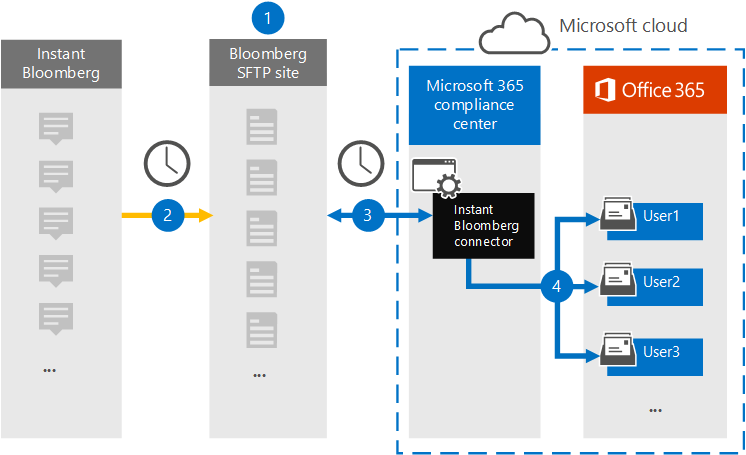
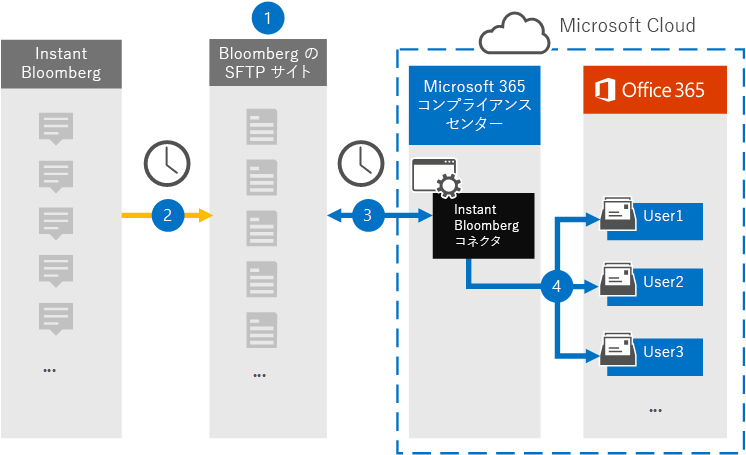
commit translated contents

diff --git a/microsoft-365/compliance/offering-gxp.md b/microsoft-365/compliance/offering-gxp.md
@@ -14,12 +14,12 @@ audience: itpro
 ms.collection: M365-security-compliance
 hideEdit: true
 titleSuffix: Microsoft Compliance
-ms.openlocfilehash: 6a3379043108340391764781f52b6a1bc3e05cf3
-ms.sourcegitcommit: 1c91b7b24537d0e54d484c3379043db53c1aea65
+ms.openlocfilehash: b4699ca9fda4f8d5364dff0fdabd868b886540b3
+ms.sourcegitcommit: b1ec6ba779a94ddbaab11a272e40abe1d3064532
 ms.translationtype: HT
 ms.contentlocale: ja-JP
-ms.lasthandoff: 01/29/2020
-ms.locfileid: "41601934"
+ms.lasthandoff: 04/07/2020
+ms.locfileid: "43165902"
 ---
 # <a name="good-clinical-laboratory-and-manufacturing-practices-gxp"></a>Good Clinical, Laboratory, and Manufacturing Practices (GxP)
 
@@ -40,7 +40,7 @@ Microsoft は、ライフ サイエンス製品およびサービスの研究、
 
 これらの標準とベスト プラクティスは GxP 規制への準拠に特に焦点を合わせていませんが、目的は類似しており、Microsoft クラウド サービスに保存されたデータの機密性、整合性、可用性を保証します。
 
-Microsoft は、ライフ サイエンス業界向けの品質保証および規制GxPコンプライアンスに特化した独立組織である [Montrium](https://www.montrium.com/)を保持し、Microsoft の GxP 資格審査を実施しました。 作成された認定ガイドライン ([ Azure ](https://aka.ms/gxpcompliance)および[ Office 365 ](https://aka.ms/o365-qualification-guideline)) は、クラウド サービスを使用して GxP 規制のコンピューター システムをホストおよびサポートすることを計画しているライフ サイエンス企業を対象としています。 ガイドラインでは、GxP 要件を満たすために Microsoft と顧客が分担する責任を特定し、範囲内の Microsoft クラウド サービスを利用する顧客が GxP コンピューター システムの制御を維持するために確立できるアクティビティと制御を推奨します。
+Microsoft は、ライフ サイエンス業界向けの品質保証および規制GxPコンプライアンスに特化した独立組織である [Montrium](https://www.montrium.com/)を保持し、Microsoft の GxP 資格審査を実施しました。 作成された認定ガイドライン ([ Azure ](https://aka.ms/gxpcompliance)および[ Office 365 ](https://resources.techcommunity.microsoft.com/wp-content/uploads/2019/05/Microsoft-Office-365-GxP-Guidelines.pdf)) は、クラウド サービスを使用して GxP 規制のコンピューター システムをホストおよびサポートすることを計画しているライフ サイエンス企業を対象としています。 ガイドラインでは、GxP 要件を満たすために Microsoft と顧客が分担する責任を特定し、範囲内の Microsoft クラウド サービスを利用する顧客が GxP コンピューター システムの制御を維持するために確立できるアクティビティと制御を推奨します。
 
 Azure および Office 365 で GxP ソリューションを構築するライフ サイエンス組織は、クラウドの効率性を活用しながら、患者の安全性、製品品質、データの整合性を保護できます。 また、顧客は、特定のレベルでデータのプライバシーと整合性を強化するセキュリティおよびガバナンス テクノロジー、運用上の慣行、コンプライアンス ポリシーの複数のレイヤーの恩恵を受けます。
 
@@ -53,7 +53,7 @@ Azure および Office 365 で GxP ソリューションを構築するライフ
 
 - [Azure GxP ガイドライン](https://aka.ms/gxpcompliance): GxP のベストプラクティスと規制に準拠した、Azure を使用するための包括的なツールセット。
 - [GxP システムで Azure を使用する](https://aka.ms/GXP-Azure-Strategies): ライフサイエンス企業が GxP アプリケーションを構築するための戦略を確立するのに役立ちます。
-- FDA CFR Title 21 第 11 部のガイド：電子記録の FDA ガイドラインに準拠する[ Azure ](https://aka.ms/Azure-FDA-Guidelines)および[ Office 365 ](https://aka.ms/o365-qualification-guideline)認定戦略の確立に関するヘルプをご覧ください。
+- FDA CFR Title 21 第 11 部のガイド：電子記録の FDA ガイドラインに準拠する[ Azure ](https://aka.ms/Azure-FDA-Guidelines)および[ Office 365 ](https://resources.techcommunity.microsoft.com/wp-content/uploads/2019/05/Microsoft-Office-365-GxP-Guidelines.pdf)認定戦略の確立に関するヘルプをご覧ください。
 
 ## <a name="frequently-asked-questions"></a>よく寄せられる質問
 

diff --git a/microsoft-365/compliance/get-started-with-sensitivity-labels.md b/microsoft-365/compliance/get-started-with-sensitivity-labels.md
@@ -17,12 +17,12 @@ search.appverid:
 - MOE150
 - MET150
 description: 組織のデータを保護するために秘密度ラベルの実装を開始する準備はできていますが、どこから始めればよいかわかりませんか? ラベル付けの移行に役立つ実用的なガイダンスをお読みください。
-ms.openlocfilehash: 4d3f2f84daf1415e7a5f48d66f1fb9d86c612d67
-ms.sourcegitcommit: e695bcfc69203da5d3d96f3d6a891664a0e27ae2
+ms.openlocfilehash: 40747d2ee66d4a873f83247278f04377ccfa8eaf
+ms.sourcegitcommit: d1909d34ac0cddeb776ff5eb8414bfc9707d5ac1
 ms.translationtype: HT
 ms.contentlocale: ja-JP
-ms.lasthandoff: 04/02/2020
-ms.locfileid: "43105989"
+ms.lasthandoff: 04/07/2020
+ms.locfileid: "43163857"
 ---
 # <a name="get-started-with-sensitivity-labels"></a>秘密度ラベルの使用を開始する
 
@@ -77,7 +77,7 @@ ms.locfileid: "43105989"
 |秘密度ラベルを使用してドキュメントやメールを暗号化し、そのコンテンツにアクセスできるユーザーとその使用方法を制限する |[秘密度ラベルを使用して暗号化を適用してコンテンツへのアクセスを制限する](encryption-sensitivity-labels.md)|
 |SharePoint (および OneDrive) で、暗号化のラベルが付いたドキュメントのコラボレーション機能を有効にする | [SharePoint および OneDrive で Office ファイルの機密度ラベルを有効にする (パブリック プレビュー)](sensitivity-labels-sharepoint-onedrive-files.md)
 |Office アプリの秘密度ラベルを管理して、コンテンツの作成時にラベルを付ける |[Office アプリで秘密度ラベルを使用する](sensitivity-labels-office-apps.md)|
-|コンテンツ作成時に秘密度ラベルまたは推奨ラベルを自動的にユーザーに適用する | [機密ラベルをコンテンツに自動的に適用する](apply-sensitivity-label-automatically.md)|
+|秘密度ラベルをドキュメントとメールに自動的に適用する | [機密ラベルをコンテンツに自動的に適用する](apply-sensitivity-label-automatically.md)|
 |秘密度ラベルを使用して、Teams や SharePoint のコンテンツを保護する |[Microsoft Teams、Office 365 グループ、SharePoint サイトで機密ラベルを使用する (パブリック プレビュー)](sensitivity-labels-teams-groups-sites.md)|
 |オンプレミスのデータ ストアに保存されているファイルを検出、ラベル付け、保護する |[ファイルを自動的に分類および保護するための Azure Information Protection スキャナーを展開する](https://docs.microsoft.com/azure/information-protection/deploy-aip-scanner)|
 |クラウドのデータ ストアに保存されているファイルを検出、ラベル付け、保護する|[クラウドに保存されている規制対象および機密データを検出、分類、ラベル付け、保護する](https://docs.microsoft.com/cloud-app-security/best-practices#discover-classify-label-and-protect-regulated-and-sensitive-data-stored-in-the-cloud)|
